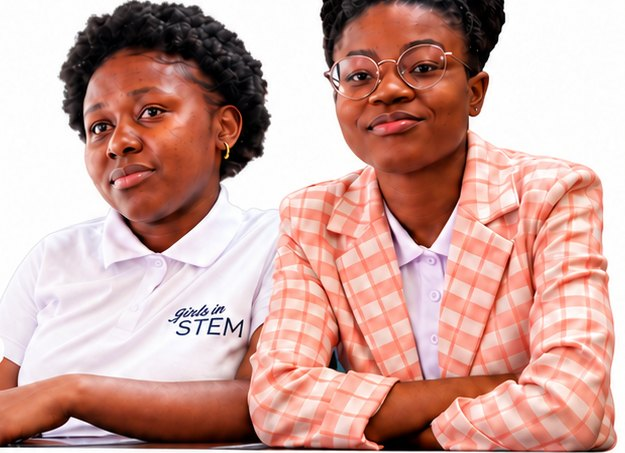
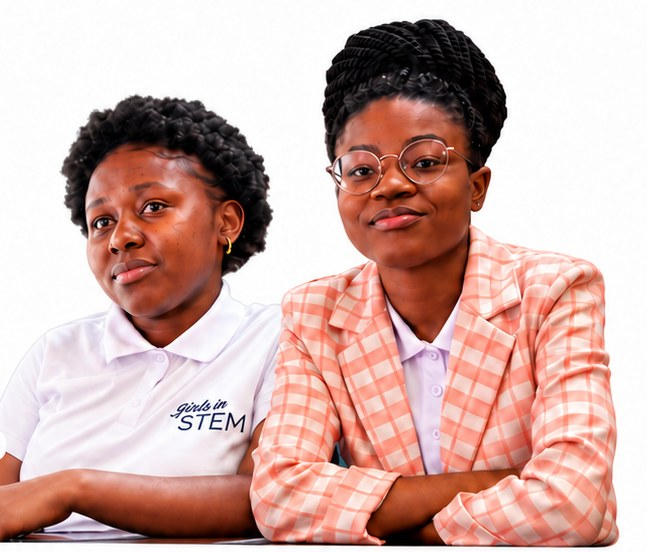
fix: show full hair in /connect hero photo

diff --git a/app/connect/ConnectPage.tsx b/app/connect/ConnectPage.tsx
@@ -184,7 +184,7 @@ export default function ConnectPage() {
           <div className="relative">
             <Image
               src="/connect/hero-photo.jpg" alt="Two young women from the Melisizwe Girls in STEM programme"
-              width={625} height={453} priority className="h-auto w-full"
+              width={647} height={552} priority className="h-auto w-full"
               sizes="(min-width: 768px) 50vw, 100vw"
             />
           </div>
